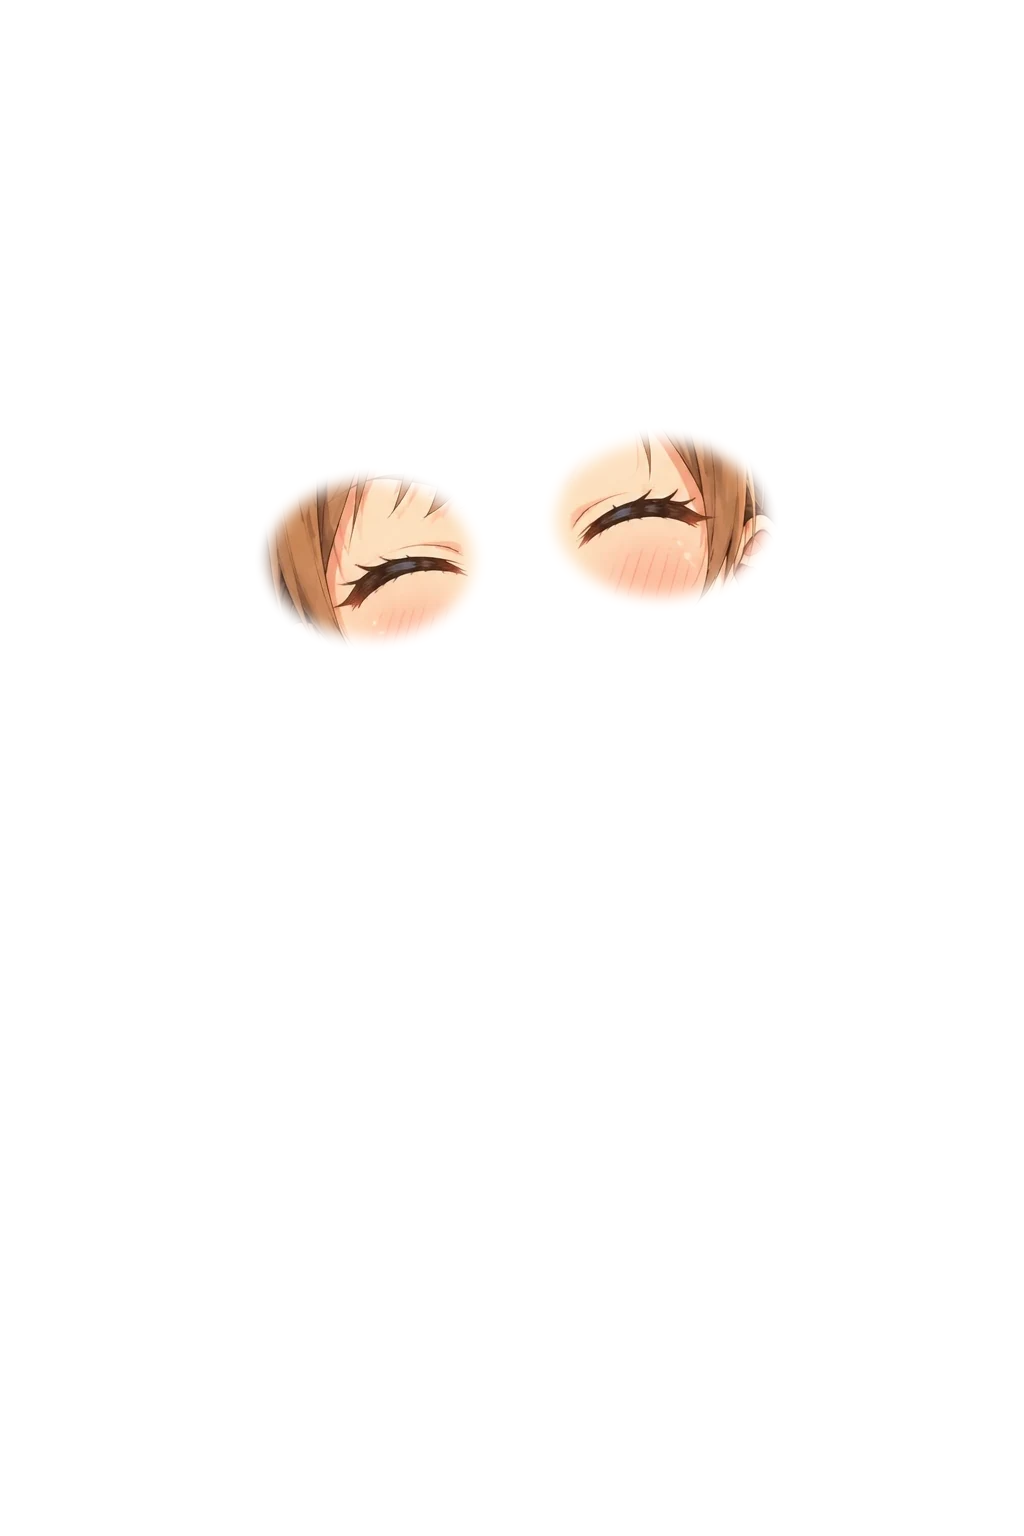
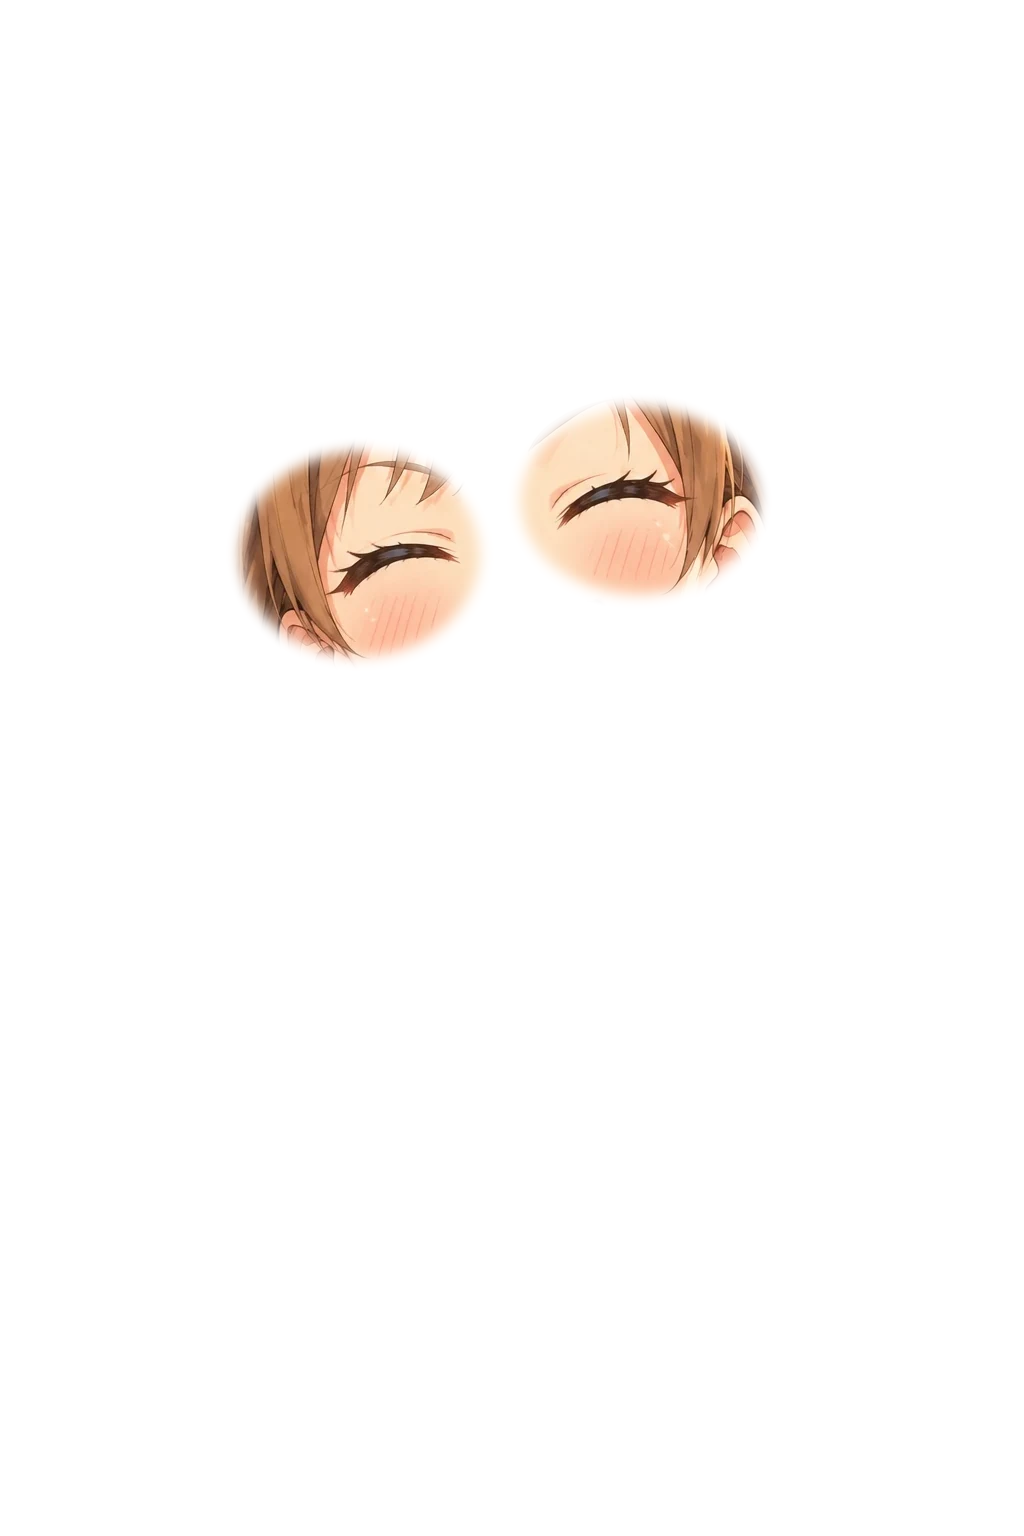
みおのまばたきの目の位置を、目ごとに合わせ直す
- 開発者の指摘「まばたきの時の目の位置がずれている」。前髪の形が表情ごとに違い、前髪で合わせると目が20〜30ドットずれていた
- 左右の目ごとに、まつ毛と瞳の暗い所の真ん中で合わせる（portrait_parts.py の BY_EYE）。開いた目が透けないよう、切り抜く範囲も広げた

Claude-Session: https://claude.ai/code/session_0138z9G7j5juWZyndYwWZQf5

Changed region(s): [[0.2188, 0.2812, 0.4688, 0.4375], [0.5, 0.25, 0.75, 0.4062]]

diff --git a/scripts/portrait_parts.py b/scripts/portrait_parts.py
@@ -109,7 +109,7 @@ def make(name: str, src: str, box: tuple[int, int, int, int] | list[tuple[int, i
 # 出す絵の名前 → (元にする表情の絵, 切り抜く楕円（いくつか重ねる時は並べる）, ぼかし, 重ねる表情)
 SHIFTED = {
     # みおの閉じた目：「大笑い」の目（顔が少し傾いているので、目ごとに楕円を分けた）
-    "mio_blink": ("mio_laugh", [(262, 488, 462, 640), (548, 448, 752, 600)], 7, ["smile", "serious", "surprised", "thinking", "worried", "pout", "frustrated", "wry", "shy", "teary"]),
+    "mio_blink": ("mio_laugh", [(236, 466, 482, 678), (528, 428, 772, 622)], 8, ["smile", "serious", "surprised", "thinking", "worried", "pout", "frustrated", "wry", "shy", "teary"]),
     # みおの開いた口：「驚き」の小さく開いた口。口を閉じている表情だけ
     "mio_talk": ("mio_surprised", (474, 650, 584, 748), 7, ["serious", "thinking", "shy"]),
     # 小夜子の閉じた目：「笑顔」の目
@@ -118,6 +118,21 @@ SHIFTED = {
     "sayoko_talk": ("sayoko_surprised", (484, 488, 572, 540), 6, ["smile", "thinking", "serious", "normal", "shy", "lonely", "teary"]),
 }
 ALIGN_BOX = (260, 300, 780, 470)
+# 目ごとに、目そのものの位置で合わせる差分（2026-10-31。みおは前髪の形が表情ごとに違い、前髪で合わせると目が20〜30ドットずれた）。
+# 楕円のまわりの暗い所（まつ毛・瞳）の真ん中を、元の表情（閉じた目）と重ねる表情（開いた目）で比べる。
+# 開いた目は上のまつ毛が濃いので、暗い所の真ん中が目の真ん中より上に出る。閉じた目の線を少し下に置く（EYE_BIAS）
+BY_EYE = {"mio_blink"}
+EYE_DARK = 60
+EYE_BIAS = 6
+
+
+def eye_center(name: str, box: tuple[int, int, int, int]) -> tuple[float, float] | None:
+    import numpy as np
+
+    a = gray(name)
+    x0, y0, x1, y1 = box[0] - 20, box[1] - 30, box[2] + 20, box[3] + 30
+    ys, xs = np.nonzero(a[y0:y1, x0:x1] < EYE_DARK)
+    return (float(xs.mean()) + x0, float(ys.mean()) + y0) if len(xs) else None
 
 
 def gray(name: str):
@@ -153,11 +168,29 @@ def make_shifted(name: str, src: str, box, feather: int, faces: list[str]) -> No
     part.putalpha(ImageChops.multiply(im.getchannel("A"), mask))
     OUT.mkdir(exist_ok=True)
     for face in faces:
-        dx, dy = offset(src, f"{name.split('_')[0]}_{face}")
+        target = f"{name.split('_')[0]}_{face}"
         out = Image.new("RGBA", im.size, (0, 0, 0, 0))
-        out.paste(part, (dx, dy))
+        if name in BY_EYE:
+            # 目ごとに切り抜いて、それぞれの目の位置へ
+            shifts = []
+            for b in boxes:
+                eye = Image.new("L", im.size, 0)
+                ImageDraw.Draw(eye).ellipse(b, fill=255)
+                eye = ImageChops.multiply(mask, eye.filter(ImageFilter.GaussianBlur(feather)))
+                piece = im.copy()
+                piece.putalpha(ImageChops.multiply(im.getchannel("A"), eye))
+                a, t = eye_center(src, b), eye_center(target, b)
+                dx, dy = (round(t[0] - a[0]), round(t[1] - a[1]) + EYE_BIAS) if a and t else (0, 0)
+                layer = Image.new("RGBA", im.size, (0, 0, 0, 0))
+                layer.paste(piece, (dx, dy))
+                out.alpha_composite(layer)
+                shifts.append(f"{dx}, {dy}")
+            print(f"{name}_{face}.webp ← {src}（目ごとのずれ {' / '.join(shifts)}）")
+        else:
+            dx, dy = offset(src, target)
+            out.paste(part, (dx, dy))
+            print(f"{name}_{face}.webp ← {src}（ずれ {dx}, {dy}）")
         out.save(OUT / f"{name}_{face}.webp", quality=88, method=6)
-        print(f"{name}_{face}.webp ← {src}（ずれ {dx}, {dy}）")
 
 
 if __name__ == "__main__":
